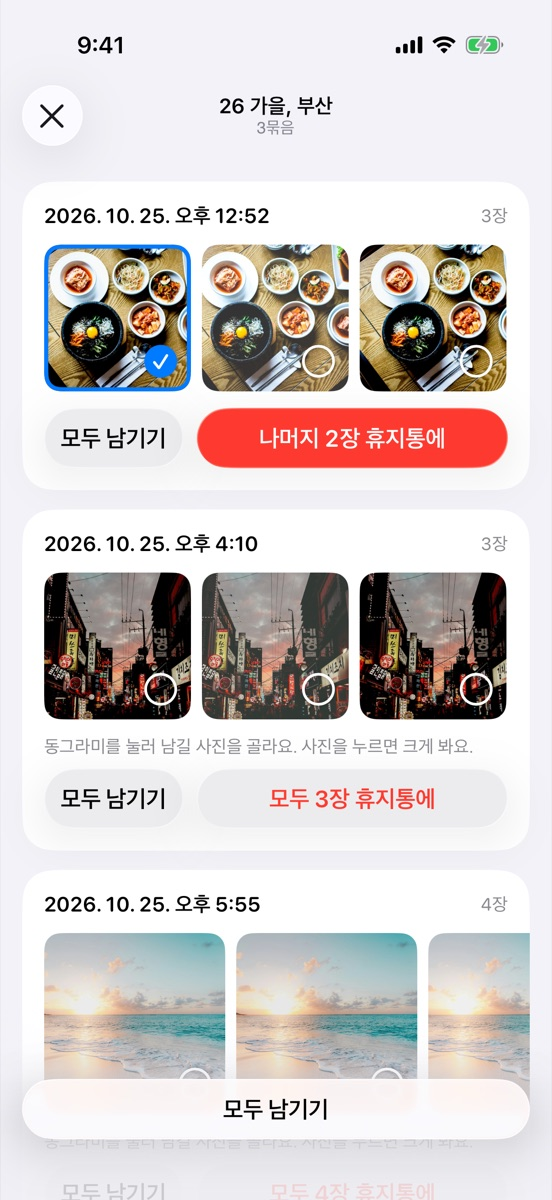
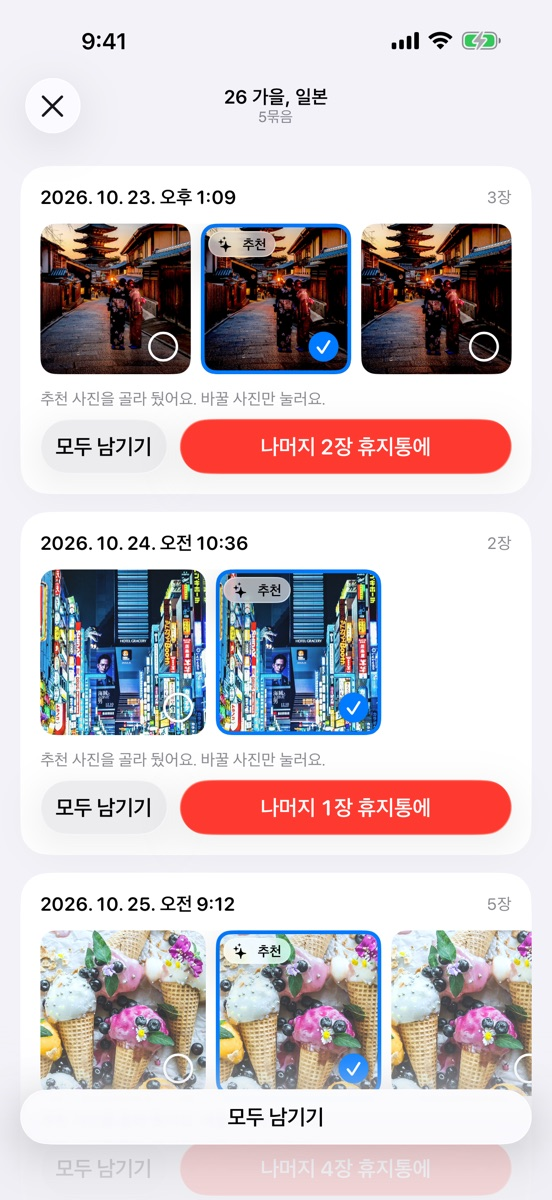
[웹] 언어별 앱 스크린샷을 넣고, 사진이 많은 보관함으로 다시 찍음
- 여행 43개(해외 20개 나라) · 사진 약 3,400장 · 4K 동영상 10개(3.34GB~5.66GB 줄어듦) 보관함으로 9장면을 다시 찍음(앱 저장소 Scripts/Store/shots.sh)
- assets/shots/<언어 폴더>/에 언어별 스크린샷, 한국어는 assets/shots/ 그대로
- 스크린샷 설명(alt)을 특정 지명 · 숫자 없이 화면이 하는 일로 바꿈
- dev/i18n.mjs가 한국어 원문에서 사라진 표 줄도 알림

diff --git a/ja/index.html b/ja/index.html
@@ -99,7 +99,7 @@
 
     <article class="band feature" style="--theme: var(--moa)" aria-labelledby="f-trip">
       <div class="wrap feature-grid">
-        <figure class="phone"><img src="../assets/shots/trips.jpg" width="552" height="1200" loading="lazy" alt="MoaBookの旅行タブ：出かけた旅行が地図に表示され、下のリストに旅行がアルバムといっしょに並んでいます"></figure>
+        <figure class="phone"><img src="../assets/shots/ja/trips.jpg" width="552" height="1200" loading="lazy" alt="MoaBookの旅行タブ：出かけた旅行が地図に表示され、下のリストに旅行がアルバムといっしょに並んでいます"></figure>
         <div class="feature-copy">
           <div class="speaker">
             <button class="char-btn" type="button" aria-label="モアの表情を変える"><span class="char" data-char="moa" data-size="112"></span></button>
@@ -114,7 +114,7 @@
 
     <article class="band feature flip" style="--theme: var(--chalkak)" aria-labelledby="f-polish">
       <div class="wrap feature-grid">
-        <figure class="phone"><img src="../assets/shots/polish.jpg" width="552" height="1200" loading="lazy" alt="旅行を仕上げる画面：似ている写真3グループのうち、最初のグループで残す写真を1枚選んでいます"></figure>
+        <figure class="phone"><img src="../assets/shots/ja/polish.jpg" width="552" height="1200" loading="lazy" alt="旅行を仕上げる画面：似ている写真3グループのうち、最初のグループで残す写真を1枚選んでいます"></figure>
         <div class="feature-copy">
           <div class="speaker">
             <button class="char-btn" type="button" aria-label="カシャの表情を変える"><span class="char" data-char="chalkak" data-size="112"></span></button>
@@ -129,7 +129,7 @@
 
     <article class="band feature" style="--theme: var(--pola)" aria-labelledby="f-swipe">
       <div class="wrap feature-grid">
-        <figure class="phone"><img src="../assets/shots/swipe.jpg" width="552" height="1200" loading="lazy" alt="スワイプで整理の画面：写真1枚と右の残すボタン、下にアルバムの欄があります"></figure>
+        <figure class="phone"><img src="../assets/shots/ja/swipe.jpg" width="552" height="1200" loading="lazy" alt="スワイプで整理の画面：写真1枚と右の残すボタン、下にアルバムの欄があります"></figure>
         <div class="feature-copy">
           <div class="speaker">
             <button class="char-btn" type="button" aria-label="ポラの表情を変える"><span class="char" data-char="pola" data-size="112"></span></button>
@@ -144,7 +144,7 @@
 
     <article class="band feature flip" style="--theme: var(--rolly)" aria-labelledby="f-video">
       <div class="wrap feature-grid">
-        <figure class="phone"><img src="../assets/shots/videos.jpg" width="552" height="1200" loading="lazy" alt="動画の容量を減らす画面：動画を減らすとどれだけ空くかを表示しています"></figure>
+        <figure class="phone"><img src="../assets/shots/ja/videos.jpg" width="552" height="1200" loading="lazy" alt="動画の容量を減らす画面：動画を減らすとどれだけ空くかを表示しています"></figure>
         <div class="feature-copy">
           <div class="speaker">
             <button class="char-btn" type="button" aria-label="ローリーの表情を変える"><span class="char" data-char="rolly" data-size="112"></span></button>
@@ -159,7 +159,7 @@
 
     <article class="band feature flip-end" style="--theme: var(--nyang)" aria-labelledby="f-room">
       <div class="wrap feature-grid">
-        <figure class="phone"><img src="../assets/shots/room.jpg" width="552" height="1200" loading="lazy" alt="キャラクタータブ：写真の山があるピクセルの部屋でモアが話しています。下に仲間選び、アプリアイコン、クローゼットがあります"></figure>
+        <figure class="phone"><img src="../assets/shots/ja/room.jpg" width="552" height="1200" loading="lazy" alt="キャラクタータブ：写真の山があるピクセルの部屋でモアが話しています。下に仲間選び、アプリアイコン、クローゼットがあります"></figure>
         <div class="feature-copy">
           <div class="speaker">
             <button class="char-btn" type="button" aria-label="ニャンの表情を変える"><span class="char" data-char="nyang" data-size="112"></span></button>
@@ -181,7 +181,7 @@
     <ul class="extras-row" role="list" tabindex="0" aria-label="ほかにできること3つ">
       <li class="extra pixel" style="--theme: var(--rolly)">
         <div class="extra-scene">
-          <figure class="phone"><img src="../assets/shots/quick.jpg" width="552" height="1200" loading="lazy" alt="整理タブの「おまかせ整理」：連続ショット、重複項目、動画の容量を減らす、古いスクリーンショット、使い終わったスクショの欄があります"></figure>
+          <figure class="phone"><img src="../assets/shots/ja/quick.jpg" width="552" height="1200" loading="lazy" alt="整理タブの「おまかせ整理」：連続ショット、重複項目、動画の容量を減らす、古いスクリーンショット、使い終わったスクショの欄があります"></figure>
           <span class="char" data-char="rolly" data-size="64"></span>
         </div>
         <h3>スクリーンショットと重複写真を整理</h3>
@@ -189,7 +189,7 @@
       </li>
       <li class="extra pixel" style="--theme: var(--pola)">
         <div class="extra-scene">
-          <figure class="phone"><img src="../assets/shots/month.jpg" width="552" height="1200" loading="lazy" alt="月別：月ごとに残りの写真の数と「このまま残す」ボタンがあり、整理し終えた月には完了スタンプがあります"></figure>
+          <figure class="phone"><img src="../assets/shots/ja/month.jpg" width="552" height="1200" loading="lazy" alt="月別：月ごとに残りの写真の数と「このまま残す」ボタンがあり、整理し終えた月には完了スタンプがあります"></figure>
           <span class="char" data-char="pola" data-size="64"></span>
         </div>
         <h3>1か月ずつ終わらせます</h3>
@@ -197,7 +197,7 @@
       </li>
       <li class="extra pixel" style="--theme: var(--chalkak)">
         <div class="extra-scene">
-          <figure class="phone"><img src="../assets/shots/share.jpg" width="552" height="1200" loading="lazy" alt="旅行を共有する画面：日付・写真の枚数・旅行の写真4枚が入ったカードと、その下の共有ボタン"></figure>
+          <figure class="phone"><img src="../assets/shots/ja/share.jpg" width="552" height="1200" loading="lazy" alt="旅行を共有する画面：日付・写真の枚数・旅行の写真4枚が入ったカードと、その下の共有ボタン"></figure>
           <span class="char" data-char="chalkak" data-size="64"></span>
         </div>
         <h3>旅行をカードで送ります</h3>
@@ -246,7 +246,7 @@
         <div class="floor" aria-hidden="true"></div>
       </div>
       <a class="store big" data-link="appstore" data-pick-cta href="https://apps.apple.com/app/id6472587949"><span class="get" aria-hidden="true"></span><span><small>App Storeからダウンロード</small><span data-pick-label>モアと整理を始める</span></span></a>
-      <figure class="phone first-run" style="--theme: var(--moa)"><img src="../assets/shots/first-run.png" width="552" height="1200" loading="lazy" alt="MoaBookの最初の画面：ピクセルの部屋でモアが待っています"><figcaption>最初に開くと、モアが部屋で待っています</figcaption></figure>
+      <figure class="phone first-run" style="--theme: var(--moa)"><img src="../assets/shots/ja/first-run.png" width="552" height="1200" loading="lazy" alt="MoaBookの最初の画面：ピクセルの部屋でモアが待っています"><figcaption>最初に開くと、モアが部屋で待っています</figcaption></figure>
     </div>
   </section>
 

diff --git a/en/index.html b/en/index.html
@@ -99,7 +99,7 @@
 
     <article class="band feature" style="--theme: var(--moa)" aria-labelledby="f-trip">
       <div class="wrap feature-grid">
-        <figure class="phone"><img src="../assets/shots/trips.jpg" width="552" height="1200" loading="lazy" alt="MoaBook Trips tab: your trips on a map, with each trip and its album in the list below"></figure>
+        <figure class="phone"><img src="../assets/shots/en/trips.jpg" width="552" height="1200" loading="lazy" alt="MoaBook Trips tab: your trips on a map, with each trip and its album in the list below"></figure>
         <div class="feature-copy">
           <div class="speaker">
             <button class="char-btn" type="button" aria-label="Change Moa's face"><span class="char" data-char="moa" data-size="112"></span></button>
@@ -114,7 +114,7 @@
 
     <article class="band feature flip" style="--theme: var(--chalkak)" aria-labelledby="f-polish">
       <div class="wrap feature-grid">
-        <figure class="phone"><img src="../assets/shots/polish.jpg" width="552" height="1200" loading="lazy" alt="Touch Up a Trip: in the first of three groups of similar photos, one photo is picked to keep"></figure>
+        <figure class="phone"><img src="../assets/shots/en/polish.jpg" width="552" height="1200" loading="lazy" alt="Touch Up a Trip: in the first of three groups of similar photos, one photo is picked to keep"></figure>
         <div class="feature-copy">
           <div class="speaker">
             <button class="char-btn" type="button" aria-label="Change Snap's face"><span class="char" data-char="chalkak" data-size="112"></span></button>
@@ -129,7 +129,7 @@
 
     <article class="band feature" style="--theme: var(--pola)" aria-labelledby="f-swipe">
       <div class="wrap feature-grid">
-        <figure class="phone"><img src="../assets/shots/swipe.jpg" width="552" height="1200" loading="lazy" alt="Swipe to Sort: one photo with the Keep button on the right, and album slots below"></figure>
+        <figure class="phone"><img src="../assets/shots/en/swipe.jpg" width="552" height="1200" loading="lazy" alt="Swipe to Sort: one photo with the Keep button on the right, and album slots below"></figure>
         <div class="feature-copy">
           <div class="speaker">
             <button class="char-btn" type="button" aria-label="Change Pola's face"><span class="char" data-char="pola" data-size="112"></span></button>
@@ -144,7 +144,7 @@
 
     <article class="band feature flip" style="--theme: var(--rolly)" aria-labelledby="f-video">
       <div class="wrap feature-grid">
-        <figure class="phone"><img src="../assets/shots/videos.jpg" width="552" height="1200" loading="lazy" alt="Shrink Videos: shows how much space shrinking the videos will save"></figure>
+        <figure class="phone"><img src="../assets/shots/en/videos.jpg" width="552" height="1200" loading="lazy" alt="Shrink Videos: shows how much space shrinking the videos will save"></figure>
         <div class="feature-copy">
           <div class="speaker">
             <button class="char-btn" type="button" aria-label="Change Rolly's face"><span class="char" data-char="rolly" data-size="112"></span></button>
@@ -159,7 +159,7 @@
 
     <article class="band feature flip-end" style="--theme: var(--nyang)" aria-labelledby="f-room">
       <div class="wrap feature-grid">
-        <figure class="phone"><img src="../assets/shots/room.jpg" width="552" height="1200" loading="lazy" alt="Characters tab: Moa talks in a pixel room with piles of photos. Below are friend picking, the app icon, and the wardrobe"></figure>
+        <figure class="phone"><img src="../assets/shots/en/room.jpg" width="552" height="1200" loading="lazy" alt="Characters tab: Moa talks in a pixel room with piles of photos. Below are friend picking, the app icon, and the wardrobe"></figure>
         <div class="feature-copy">
           <div class="speaker">
             <button class="char-btn" type="button" aria-label="Change Kitty's face"><span class="char" data-char="nyang" data-size="112"></span></button>
@@ -181,7 +181,7 @@
     <ul class="extras-row" role="list" tabindex="0" aria-label="Three more things you can do">
       <li class="extra pixel" style="--theme: var(--rolly)">
         <div class="extra-scene">
-          <figure class="phone"><img src="../assets/shots/quick.jpg" width="552" height="1200" loading="lazy" alt="Quick Clean-up on the Clean Up tab: Rapid Shots, Duplicates, Shrink Videos, Old Screenshots, and One-time Screenshots"></figure>
+          <figure class="phone"><img src="../assets/shots/en/quick.jpg" width="552" height="1200" loading="lazy" alt="Quick Clean-up on the Clean Up tab: Rapid Shots, Duplicates, Shrink Videos, Old Screenshots, and One-time Screenshots"></figure>
           <span class="char" data-char="rolly" data-size="64"></span>
         </div>
         <h3>Clean Up Screenshots and Duplicates</h3>
@@ -189,7 +189,7 @@
       </li>
       <li class="extra pixel" style="--theme: var(--pola)">
         <div class="extra-scene">
-          <figure class="phone"><img src="../assets/shots/month.jpg" width="552" height="1200" loading="lazy" alt="By Month: each month shows photos left and a Keep As Is button, and fully sorted months have a done stamp"></figure>
+          <figure class="phone"><img src="../assets/shots/en/month.jpg" width="552" height="1200" loading="lazy" alt="By Month: each month shows photos left and a Keep As Is button, and fully sorted months have a done stamp"></figure>
           <span class="char" data-char="pola" data-size="64"></span>
         </div>
         <h3>Finish One Month at a Time</h3>
@@ -197,7 +197,7 @@
       </li>
       <li class="extra pixel" style="--theme: var(--chalkak)">
         <div class="extra-scene">
-          <figure class="phone"><img src="../assets/shots/share.jpg" width="552" height="1200" loading="lazy" alt="Share Trip: a trip card with the dates, photo count, and four trip photos, with a Share button below"></figure>
+          <figure class="phone"><img src="../assets/shots/en/share.jpg" width="552" height="1200" loading="lazy" alt="Share Trip: a trip card with the dates, photo count, and four trip photos, with a Share button below"></figure>
           <span class="char" data-char="chalkak" data-size="64"></span>
         </div>
         <h3>Send a Trip as a Card</h3>
@@ -246,7 +246,7 @@
         <div class="floor" aria-hidden="true"></div>
       </div>
       <a class="store big" data-link="appstore" data-pick-cta href="https://apps.apple.com/app/id6472587949"><span class="get" aria-hidden="true"></span><span><small>Download on the App Store</small><span data-pick-label>Start Sorting with Moa</span></span></a>
-      <figure class="phone first-run" style="--theme: var(--moa)"><img src="../assets/shots/first-run.png" width="552" height="1200" loading="lazy" alt="MoaBook first screen: Moa waiting in a pixel room"><figcaption>When you first open it, Moa is waiting in the room</figcaption></figure>
+      <figure class="phone first-run" style="--theme: var(--moa)"><img src="../assets/shots/en/first-run.png" width="552" height="1200" loading="lazy" alt="MoaBook first screen: Moa waiting in a pixel room"><figcaption>When you first open it, Moa is waiting in the room</figcaption></figure>
     </div>
   </section>
 

diff --git a/zh-hans/index.html b/zh-hans/index.html
@@ -99,7 +99,7 @@
 
     <article class="band feature" style="--theme: var(--moa)" aria-labelledby="f-trip">
       <div class="wrap feature-grid">
-        <figure class="phone"><img src="../assets/shots/trips.jpg" width="552" height="1200" loading="lazy" alt="MoaBook 旅行标签页：地图上标出去过的旅行，下方列表里有各次旅行和相簿"></figure>
+        <figure class="phone"><img src="../assets/shots/zh-hans/trips.jpg" width="552" height="1200" loading="lazy" alt="MoaBook 旅行标签页：地图上标出去过的旅行，下方列表里有各次旅行和相簿"></figure>
         <div class="feature-copy">
           <div class="speaker">
             <button class="char-btn" type="button" aria-label="切换 Moa 的表情"><span class="char" data-char="moa" data-size="112"></span></button>
@@ -114,7 +114,7 @@
 
     <article class="band feature flip" style="--theme: var(--chalkak)" aria-labelledby="f-polish">
       <div class="wrap feature-grid">
-        <figure class="phone"><img src="../assets/shots/polish.jpg" width="552" height="1200" loading="lazy" alt="完善旅行画面：在三组相似照片中，第一组已选好要保留的一张"></figure>
+        <figure class="phone"><img src="../assets/shots/zh-hans/polish.jpg" width="552" height="1200" loading="lazy" alt="完善旅行画面：在三组相似照片中，第一组已选好要保留的一张"></figure>
         <div class="feature-copy">
           <div class="speaker">
             <button class="char-btn" type="button" aria-label="切换咔嚓的表情"><span class="char" data-char="chalkak" data-size="112"></span></button>
@@ -129,7 +129,7 @@
 
     <article class="band feature" style="--theme: var(--pola)" aria-labelledby="f-swipe">
       <div class="wrap feature-grid">
-        <figure class="phone"><img src="../assets/shots/swipe.jpg" width="552" height="1200" loading="lazy" alt="滑动整理画面：一张照片和右侧的保留按钮，下方有相簿栏"></figure>
+        <figure class="phone"><img src="../assets/shots/zh-hans/swipe.jpg" width="552" height="1200" loading="lazy" alt="滑动整理画面：一张照片和右侧的保留按钮，下方有相簿栏"></figure>
         <div class="feature-copy">
           <div class="speaker">
             <button class="char-btn" type="button" aria-label="切换 Pola 的表情"><span class="char" data-char="pola" data-size="112"></span></button>
@@ -144,7 +144,7 @@
 
     <article class="band feature flip" style="--theme: var(--rolly)" aria-labelledby="f-video">
       <div class="wrap feature-grid">
-        <figure class="phone"><img src="../assets/shots/videos.jpg" width="552" height="1200" loading="lazy" alt="压缩视频画面：显示压缩视频后能省下多少空间"></figure>
+        <figure class="phone"><img src="../assets/shots/zh-hans/videos.jpg" width="552" height="1200" loading="lazy" alt="压缩视频画面：显示压缩视频后能省下多少空间"></figure>
         <div class="feature-copy">
           <div class="speaker">
             <button class="char-btn" type="button" aria-label="切换 Rolly 的表情"><span class="char" data-char="rolly" data-size="112"></span></button>
@@ -159,7 +159,7 @@
 
     <article class="band feature flip-end" style="--theme: var(--nyang)" aria-labelledby="f-room">
       <div class="wrap feature-grid">
-        <figure class="phone"><img src="../assets/shots/room.jpg" width="552" height="1200" loading="lazy" alt="角色标签页：Moa 在堆着照片的像素房间里说话。下方有选择朋友、App 图标和衣橱"></figure>
+        <figure class="phone"><img src="../assets/shots/zh-hans/room.jpg" width="552" height="1200" loading="lazy" alt="角色标签页：Moa 在堆着照片的像素房间里说话。下方有选择朋友、App 图标和衣橱"></figure>
         <div class="feature-copy">
           <div class="speaker">
             <button class="char-btn" type="button" aria-label="切换喵喵的表情"><span class="char" data-char="nyang" data-size="112"></span></button>
@@ -181,7 +181,7 @@
     <ul class="extras-row" role="list" tabindex="0" aria-label="另外三件可以做的事">
       <li class="extra pixel" style="--theme: var(--rolly)">
         <div class="extra-scene">
-          <figure class="phone"><img src="../assets/shots/quick.jpg" width="552" height="1200" loading="lazy" alt="整理标签页“一键整理”：连拍照片、重复项目、压缩视频、旧截屏和用过的截屏栏"></figure>
+          <figure class="phone"><img src="../assets/shots/zh-hans/quick.jpg" width="552" height="1200" loading="lazy" alt="整理标签页“一键整理”：连拍照片、重复项目、压缩视频、旧截屏和用过的截屏栏"></figure>
           <span class="char" data-char="rolly" data-size="64"></span>
         </div>
         <h3>整理截屏和重复照片</h3>
@@ -189,7 +189,7 @@
       </li>
       <li class="extra pixel" style="--theme: var(--pola)">
         <div class="extra-scene">
-          <figure class="phone"><img src="../assets/shots/month.jpg" width="552" height="1200" loading="lazy" alt="按月：每个月显示剩余照片数和“保持原样”按钮，整理完的月份盖有完成章"></figure>
+          <figure class="phone"><img src="../assets/shots/zh-hans/month.jpg" width="552" height="1200" loading="lazy" alt="按月：每个月显示剩余照片数和“保持原样”按钮，整理完的月份盖有完成章"></figure>
           <span class="char" data-char="pola" data-size="64"></span>
         </div>
         <h3>一个月一个月地完成</h3>
@@ -197,7 +197,7 @@
       </li>
       <li class="extra pixel" style="--theme: var(--chalkak)">
         <div class="extra-scene">
-          <figure class="phone"><img src="../assets/shots/share.jpg" width="552" height="1200" loading="lazy" alt="共享旅行画面：包含日期、照片数和四张旅行照片的卡片，下方有分享按钮"></figure>
+          <figure class="phone"><img src="../assets/shots/zh-hans/share.jpg" width="552" height="1200" loading="lazy" alt="共享旅行画面：包含日期、照片数和四张旅行照片的卡片，下方有分享按钮"></figure>
           <span class="char" data-char="chalkak" data-size="64"></span>
         </div>
         <h3>把旅行做成卡片分享</h3>
@@ -246,7 +246,7 @@
         <div class="floor" aria-hidden="true"></div>
       </div>
       <a class="store big" data-link="appstore" data-pick-cta href="https://apps.apple.com/app/id6472587949"><span class="get" aria-hidden="true"></span><span><small>在 App Store 下载</small><span data-pick-label>和 Moa 开始整理</span></span></a>
-      <figure class="phone first-run" style="--theme: var(--moa)"><img src="../assets/shots/first-run.png" width="552" height="1200" loading="lazy" alt="MoaBook 第一个画面：Moa 在像素房间里等你"><figcaption>第一次打开时，Moa 在房间里等你</figcaption></figure>
+      <figure class="phone first-run" style="--theme: var(--moa)"><img src="../assets/shots/zh-hans/first-run.png" width="552" height="1200" loading="lazy" alt="MoaBook 第一个画面：Moa 在像素房间里等你"><figcaption>第一次打开时，Moa 在房间里等你</figcaption></figure>
     </div>
   </section>
 

diff --git a/zh-hant/index.html b/zh-hant/index.html
@@ -99,7 +99,7 @@
 
     <article class="band feature" style="--theme: var(--moa)" aria-labelledby="f-trip">
       <div class="wrap feature-grid">
-        <figure class="phone"><img src="../assets/shots/trips.jpg" width="552" height="1200" loading="lazy" alt="MoaBook 旅行標籤頁：地圖上標出去過的旅行，下方列表裡有各次旅行和相簿"></figure>
+        <figure class="phone"><img src="../assets/shots/zh-hant/trips.jpg" width="552" height="1200" loading="lazy" alt="MoaBook 旅行標籤頁：地圖上標出去過的旅行，下方列表裡有各次旅行和相簿"></figure>
         <div class="feature-copy">
           <div class="speaker">
             <button class="char-btn" type="button" aria-label="切換 Moa 的表情"><span class="char" data-char="moa" data-size="112"></span></button>
@@ -114,7 +114,7 @@
 
     <article class="band feature flip" style="--theme: var(--chalkak)" aria-labelledby="f-polish">
       <div class="wrap feature-grid">
-        <figure class="phone"><img src="../assets/shots/polish.jpg" width="552" height="1200" loading="lazy" alt="完善旅行畫面：在三組相似照片中，第一組已選好要保留的一張"></figure>
+        <figure class="phone"><img src="../assets/shots/zh-hant/polish.jpg" width="552" height="1200" loading="lazy" alt="完善旅行畫面：在三組相似照片中，第一組已選好要保留的一張"></figure>
         <div class="feature-copy">
           <div class="speaker">
             <button class="char-btn" type="button" aria-label="切換咔嚓的表情"><span class="char" data-char="chalkak" data-size="112"></span></button>
@@ -129,7 +129,7 @@
 
     <article class="band feature" style="--theme: var(--pola)" aria-labelledby="f-swipe">
       <div class="wrap feature-grid">
-        <figure class="phone"><img src="../assets/shots/swipe.jpg" width="552" height="1200" loading="lazy" alt="滑動整理畫面：一張照片和右側的保留按鈕，下方有相簿欄"></figure>
+        <figure class="phone"><img src="../assets/shots/zh-hant/swipe.jpg" width="552" height="1200" loading="lazy" alt="滑動整理畫面：一張照片和右側的保留按鈕，下方有相簿欄"></figure>
         <div class="feature-copy">
           <div class="speaker">
             <button class="char-btn" type="button" aria-label="切換 Pola 的表情"><span class="char" data-char="pola" data-size="112"></span></button>
@@ -144,7 +144,7 @@
 
     <article class="band feature flip" style="--theme: var(--rolly)" aria-labelledby="f-video">
       <div class="wrap feature-grid">
-        <figure class="phone"><img src="../assets/shots/videos.jpg" width="552" height="1200" loading="lazy" alt="壓縮影片畫面：顯示壓縮影片後能省下多少空間"></figure>
+        <figure class="phone"><img src="../assets/shots/zh-hant/videos.jpg" width="552" height="1200" loading="lazy" alt="壓縮影片畫面：顯示壓縮影片後能省下多少空間"></figure>
         <div class="feature-copy">
           <div class="speaker">
             <button class="char-btn" type="button" aria-label="切換 Rolly 的表情"><span class="char" data-char="rolly" data-size="112"></span></button>
@@ -159,7 +159,7 @@
 
     <article class="band feature flip-end" style="--theme: var(--nyang)" aria-labelledby="f-room">
       <div class="wrap feature-grid">
-        <figure class="phone"><img src="../assets/shots/room.jpg" width="552" height="1200" loading="lazy" alt="角色標籤頁：Moa 在堆著照片的像素房間裡說話。下方有選擇朋友、App 圖示和衣櫥"></figure>
+        <figure class="phone"><img src="../assets/shots/zh-hant/room.jpg" width="552" height="1200" loading="lazy" alt="角色標籤頁：Moa 在堆著照片的像素房間裡說話。下方有選擇朋友、App 圖示和衣櫥"></figure>
         <div class="feature-copy">
           <div class="speaker">
             <button class="char-btn" type="button" aria-label="切換喵喵的表情"><span class="char" data-char="nyang" data-size="112"></span></button>
@@ -181,7 +181,7 @@
     <ul class="extras-row" role="list" tabindex="0" aria-label="另外三件可以做的事">
       <li class="extra pixel" style="--theme: var(--rolly)">
         <div class="extra-scene">
-          <figure class="phone"><img src="../assets/shots/quick.jpg" width="552" height="1200" loading="lazy" alt="整理標籤頁「一鍵整理」：連拍照片、重複項目、壓縮影片、舊截圖和用過的截圖欄"></figure>
+          <figure class="phone"><img src="../assets/shots/zh-hant/quick.jpg" width="552" height="1200" loading="lazy" alt="整理標籤頁「一鍵整理」：連拍照片、重複項目、壓縮影片、舊截圖和用過的截圖欄"></figure>
           <span class="char" data-char="rolly" data-size="64"></span>
         </div>
         <h3>整理截圖和重複照片</h3>
@@ -189,7 +189,7 @@
       </li>
       <li class="extra pixel" style="--theme: var(--pola)">
         <div class="extra-scene">
-          <figure class="phone"><img src="../assets/shots/month.jpg" width="552" height="1200" loading="lazy" alt="按月：每個月顯示剩餘照片數和「保持原樣」按鈕，整理完的月份蓋有完成章"></figure>
+          <figure class="phone"><img src="../assets/shots/zh-hant/month.jpg" width="552" height="1200" loading="lazy" alt="按月：每個月顯示剩餘照片數和「保持原樣」按鈕，整理完的月份蓋有完成章"></figure>
           <span class="char" data-char="pola" data-size="64"></span>
         </div>
         <h3>一個月一個月地完成</h3>
@@ -197,7 +197,7 @@
       </li>
       <li class="extra pixel" style="--theme: var(--chalkak)">
         <div class="extra-scene">
-          <figure class="phone"><img src="../assets/shots/share.jpg" width="552" height="1200" loading="lazy" alt="分享旅行畫面：包含日期、照片數和四張旅行照片的卡片，下方有分享按鈕"></figure>
+          <figure class="phone"><img src="../assets/shots/zh-hant/share.jpg" width="552" height="1200" loading="lazy" alt="分享旅行畫面：包含日期、照片數和四張旅行照片的卡片，下方有分享按鈕"></figure>
           <span class="char" data-char="chalkak" data-size="64"></span>
         </div>
         <h3>把旅行做成卡片分享</h3>
@@ -246,7 +246,7 @@
         <div class="floor" aria-hidden="true"></div>
       </div>
       <a class="store big" data-link="appstore" data-pick-cta href="https://apps.apple.com/app/id6472587949"><span class="get" aria-hidden="true"></span><span><small>在 App Store 下載</small><span data-pick-label>和 Moa 開始整理</span></span></a>
-      <figure class="phone first-run" style="--theme: var(--moa)"><img src="../assets/shots/first-run.png" width="552" height="1200" loading="lazy" alt="MoaBook 第一個畫面：Moa 在像素房間裡等你"><figcaption>第一次打開時，Moa 在房間裡等你</figcaption></figure>
+      <figure class="phone first-run" style="--theme: var(--moa)"><img src="../assets/shots/zh-hant/first-run.png" width="552" height="1200" loading="lazy" alt="MoaBook 第一個畫面：Moa 在像素房間裡等你"><figcaption>第一次打開時，Moa 在房間裡等你</figcaption></figure>
     </div>
   </section>
 

diff --git a/index.html b/index.html
@@ -102,7 +102,7 @@
 
     <article class="band feature" style="--theme: var(--moa)" aria-labelledby="f-trip">
       <div class="wrap feature-grid">
-        <figure class="phone"><img src="assets/shots/trips.jpg" width="552" height="1200" loading="lazy" alt="모아북 여행 탭: 지도에 다녀온 여행이 표시되고, 아래 목록에 부산 · 강릉 · 서귀포 여행이 앨범과 함께 있어요"></figure>
+        <figure class="phone"><img src="assets/shots/trips.jpg" width="552" height="1200" loading="lazy" alt="모아북 여행 탭: 지도에 다녀온 여행이 표시되고, 아래 목록에 여행마다 앨범이 있어요"></figure>
         <div class="feature-copy">
           <div class="speaker">
             <button class="char-btn" type="button" aria-label="모아 표정 바꾸기"><span class="char" data-char="moa" data-size="112"></span></button>
@@ -117,7 +117,7 @@
 
     <article class="band feature flip" style="--theme: var(--chalkak)" aria-labelledby="f-polish">
       <div class="wrap feature-grid">
-        <figure class="phone"><img src="assets/shots/polish.jpg" width="552" height="1200" loading="lazy" alt="여행 다듬기 화면: 부산 여행의 비슷한 사진 세 묶음 중 첫 묶음에서 남길 사진 한 장을 골랐어요"></figure>
+        <figure class="phone"><img src="assets/shots/polish.jpg" width="552" height="1200" loading="lazy" alt="여행 다듬기 화면: 비슷한 사진 묶음에서 남길 사진 한 장을 골랐어요"></figure>
         <div class="feature-copy">
           <div class="speaker">
             <button class="char-btn" type="button" aria-label="찰칵 표정 바꾸기"><span class="char" data-char="chalkak" data-size="112"></span></button>
@@ -132,7 +132,7 @@
 
     <article class="band feature" style="--theme: var(--pola)" aria-labelledby="f-swipe">
       <div class="wrap feature-grid">
-        <figure class="phone"><img src="assets/shots/swipe.jpg" width="552" height="1200" loading="lazy" alt="넘겨 보며 정리 화면: 음식 사진 한 장과 오른쪽 보관 버튼, 아래에 여행 · 바다 · 카페 · 꽃 · 음식 · 반려동물 앨범이 있어요"></figure>
+        <figure class="phone"><img src="assets/shots/swipe.jpg" width="552" height="1200" loading="lazy" alt="넘겨 보며 정리 화면: 사진 한 장과 오른쪽 보관 버튼, 아래에 앨범 칸이 있어요"></figure>
         <div class="feature-copy">
           <div class="speaker">
             <button class="char-btn" type="button" aria-label="폴라 표정 바꾸기"><span class="char" data-char="pola" data-size="112"></span></button>
@@ -147,7 +147,7 @@
 
     <article class="band feature flip" style="--theme: var(--rolly)" aria-labelledby="f-video">
       <div class="wrap feature-grid">
-        <figure class="phone"><img src="assets/shots/videos.jpg" width="552" height="1200" loading="lazy" alt="동영상 용량 줄이기 화면: 동영상 5개를 고화질로 줄이면 약 106.7MB~180.6MB가 줄어든다고 보여 줘요"></figure>
+        <figure class="phone"><img src="assets/shots/videos.jpg" width="552" height="1200" loading="lazy" alt="동영상 용량 줄이기 화면: 동영상을 줄이면 얼마나 줄어드는지 보여 줘요"></figure>
         <div class="feature-copy">
           <div class="speaker">
             <button class="char-btn" type="button" aria-label="롤리 표정 바꾸기"><span class="char" data-char="rolly" data-size="112"></span></button>
@@ -162,7 +162,7 @@
 
     <article class="band feature flip-end" style="--theme: var(--nyang)" aria-labelledby="f-room">
       <div class="wrap feature-grid">
-        <figure class="phone"><img src="assets/shots/room.jpg" width="552" height="1200" loading="lazy" alt="캐릭터 탭: 사진 더미가 놓인 픽셀 방에서 모아가 &#39;하늘이 참 높아요&#39;라고 말해요. 아래에 친구 고르기와 앱 아이콘, 옷장이 있어요"></figure>
+        <figure class="phone"><img src="assets/shots/room.jpg" width="552" height="1200" loading="lazy" alt="캐릭터 탭: 사진 더미가 놓인 픽셀 방에서 모아가 말해요. 아래에 친구 고르기와 앱 아이콘, 옷장이 있어요"></figure>
         <div class="feature-copy">
           <div class="speaker">
             <button class="char-btn" type="button" aria-label="냥이 표정 바꾸기"><span class="char" data-char="nyang" data-size="112"></span></button>
@@ -185,7 +185,7 @@
     <ul class="extras-row" role="list" tabindex="0" aria-label="더 할 수 있는 일 세 가지">
       <li class="extra pixel" style="--theme: var(--rolly)">
         <div class="extra-scene">
-          <figure class="phone"><img src="assets/shots/quick.jpg" width="552" height="1200" loading="lazy" alt="정리 탭 '바로 정리': 연달아 찍은 사진 5장, 중복된 항목 4장, 동영상 용량 줄이기 5개, 오래된 스크린샷 3장, 다 쓴 캡처 칸이 있어요"></figure>
+          <figure class="phone"><img src="assets/shots/quick.jpg" width="552" height="1200" loading="lazy" alt="정리 탭 &#39;바로 정리&#39;: 연달아 찍은 사진, 중복된 항목, 동영상 용량 줄이기, 오래된 스크린샷, 다 쓴 캡처 칸이 있어요"></figure>
           <span class="char" data-char="rolly" data-size="64"></span>
         </div>
         <h3>스크린샷과 중복 사진을 정리해요</h3>
@@ -193,7 +193,7 @@
       </li>
       <li class="extra pixel" style="--theme: var(--pola)">
         <div class="extra-scene">
-          <figure class="phone"><img src="assets/shots/month.jpg" width="552" height="1200" loading="lazy" alt="월별로 보기: 2026년 달마다 남은 사진 수와 '이대로 보관' 버튼이 있고, 다 정리한 9월과 7월에는 완료 도장이 있어요"></figure>
+          <figure class="phone"><img src="assets/shots/month.jpg" width="552" height="1200" loading="lazy" alt="월별로 보기: 달마다 남은 사진 수와 &#39;이대로 보관&#39; 버튼이 있고, 다 정리한 달에는 완료 도장이 있어요"></figure>
           <span class="char" data-char="pola" data-size="64"></span>
         </div>
         <h3>한 달씩 끝내요</h3>
@@ -201,7 +201,7 @@
       </li>
       <li class="extra pixel" style="--theme: var(--chalkak)">
         <div class="extra-scene">
-          <figure class="phone"><img src="assets/shots/share.jpg" width="552" height="1200" loading="lazy" alt="여행 공유 화면: '26 가을, 부산' 카드에 날짜, 사진 30장, 여행 사진 네 장이 담겨 있고 아래에 공유하기 버튼이 있어요"></figure>
+          <figure class="phone"><img src="assets/shots/share.jpg" width="552" height="1200" loading="lazy" alt="여행 공유 화면: 여행 이름 · 날짜 · 사진 수와 여행 사진 네 장을 담은 카드, 아래에 공유하기 버튼이 있어요"></figure>
           <span class="char" data-char="chalkak" data-size="64"></span>
         </div>
         <h3>여행을 카드로 보내요</h3>
